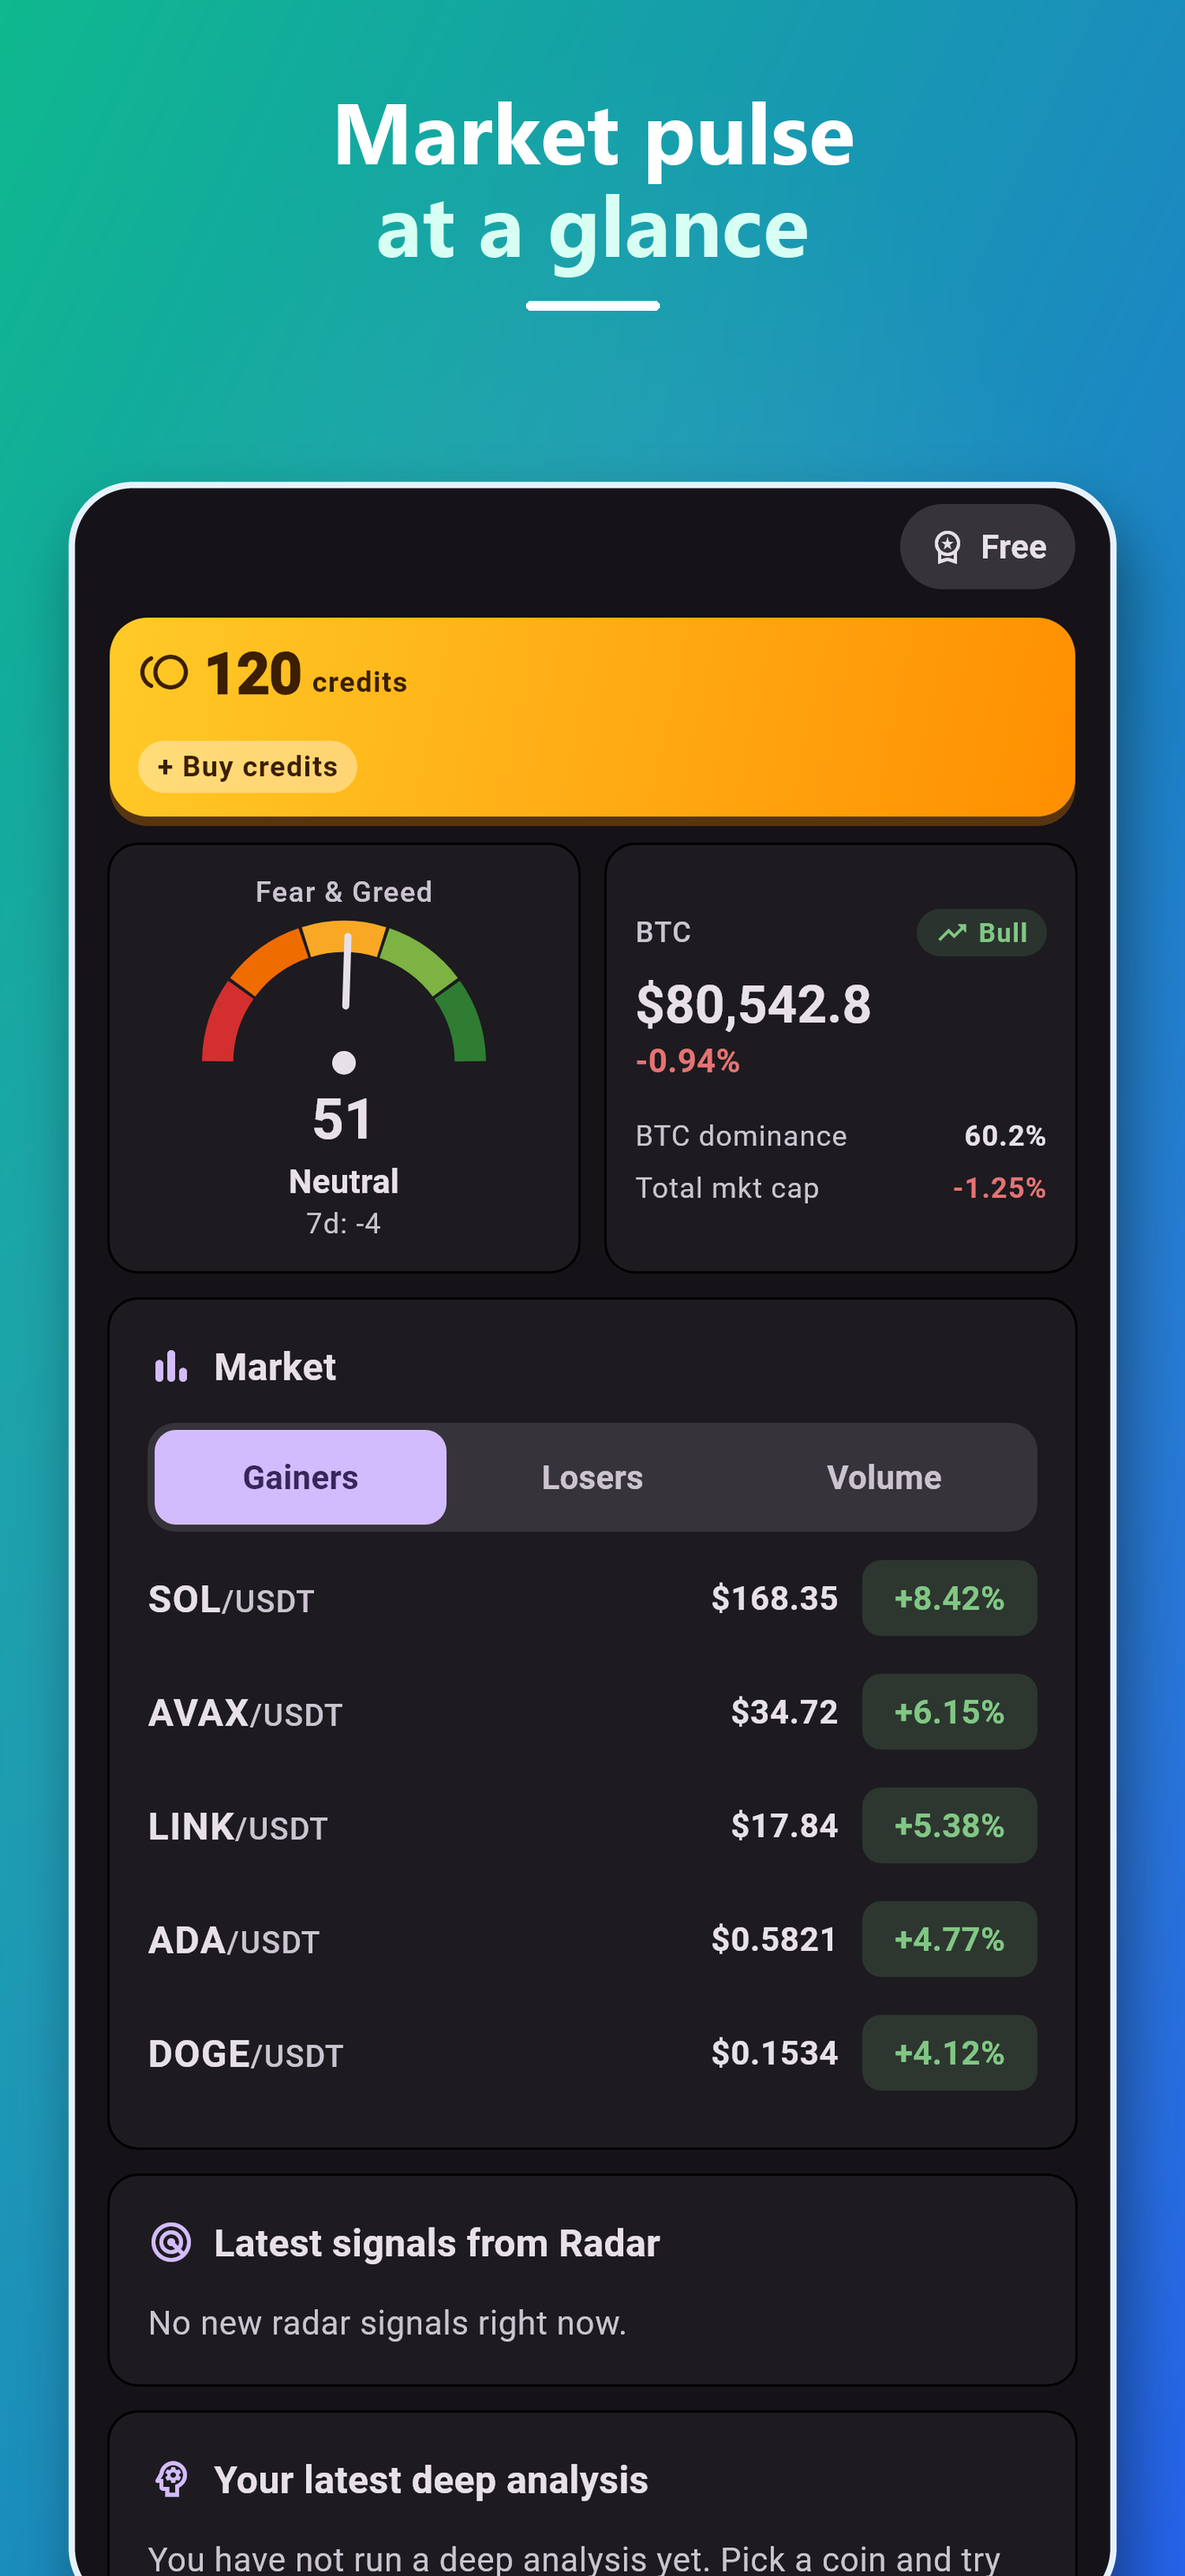
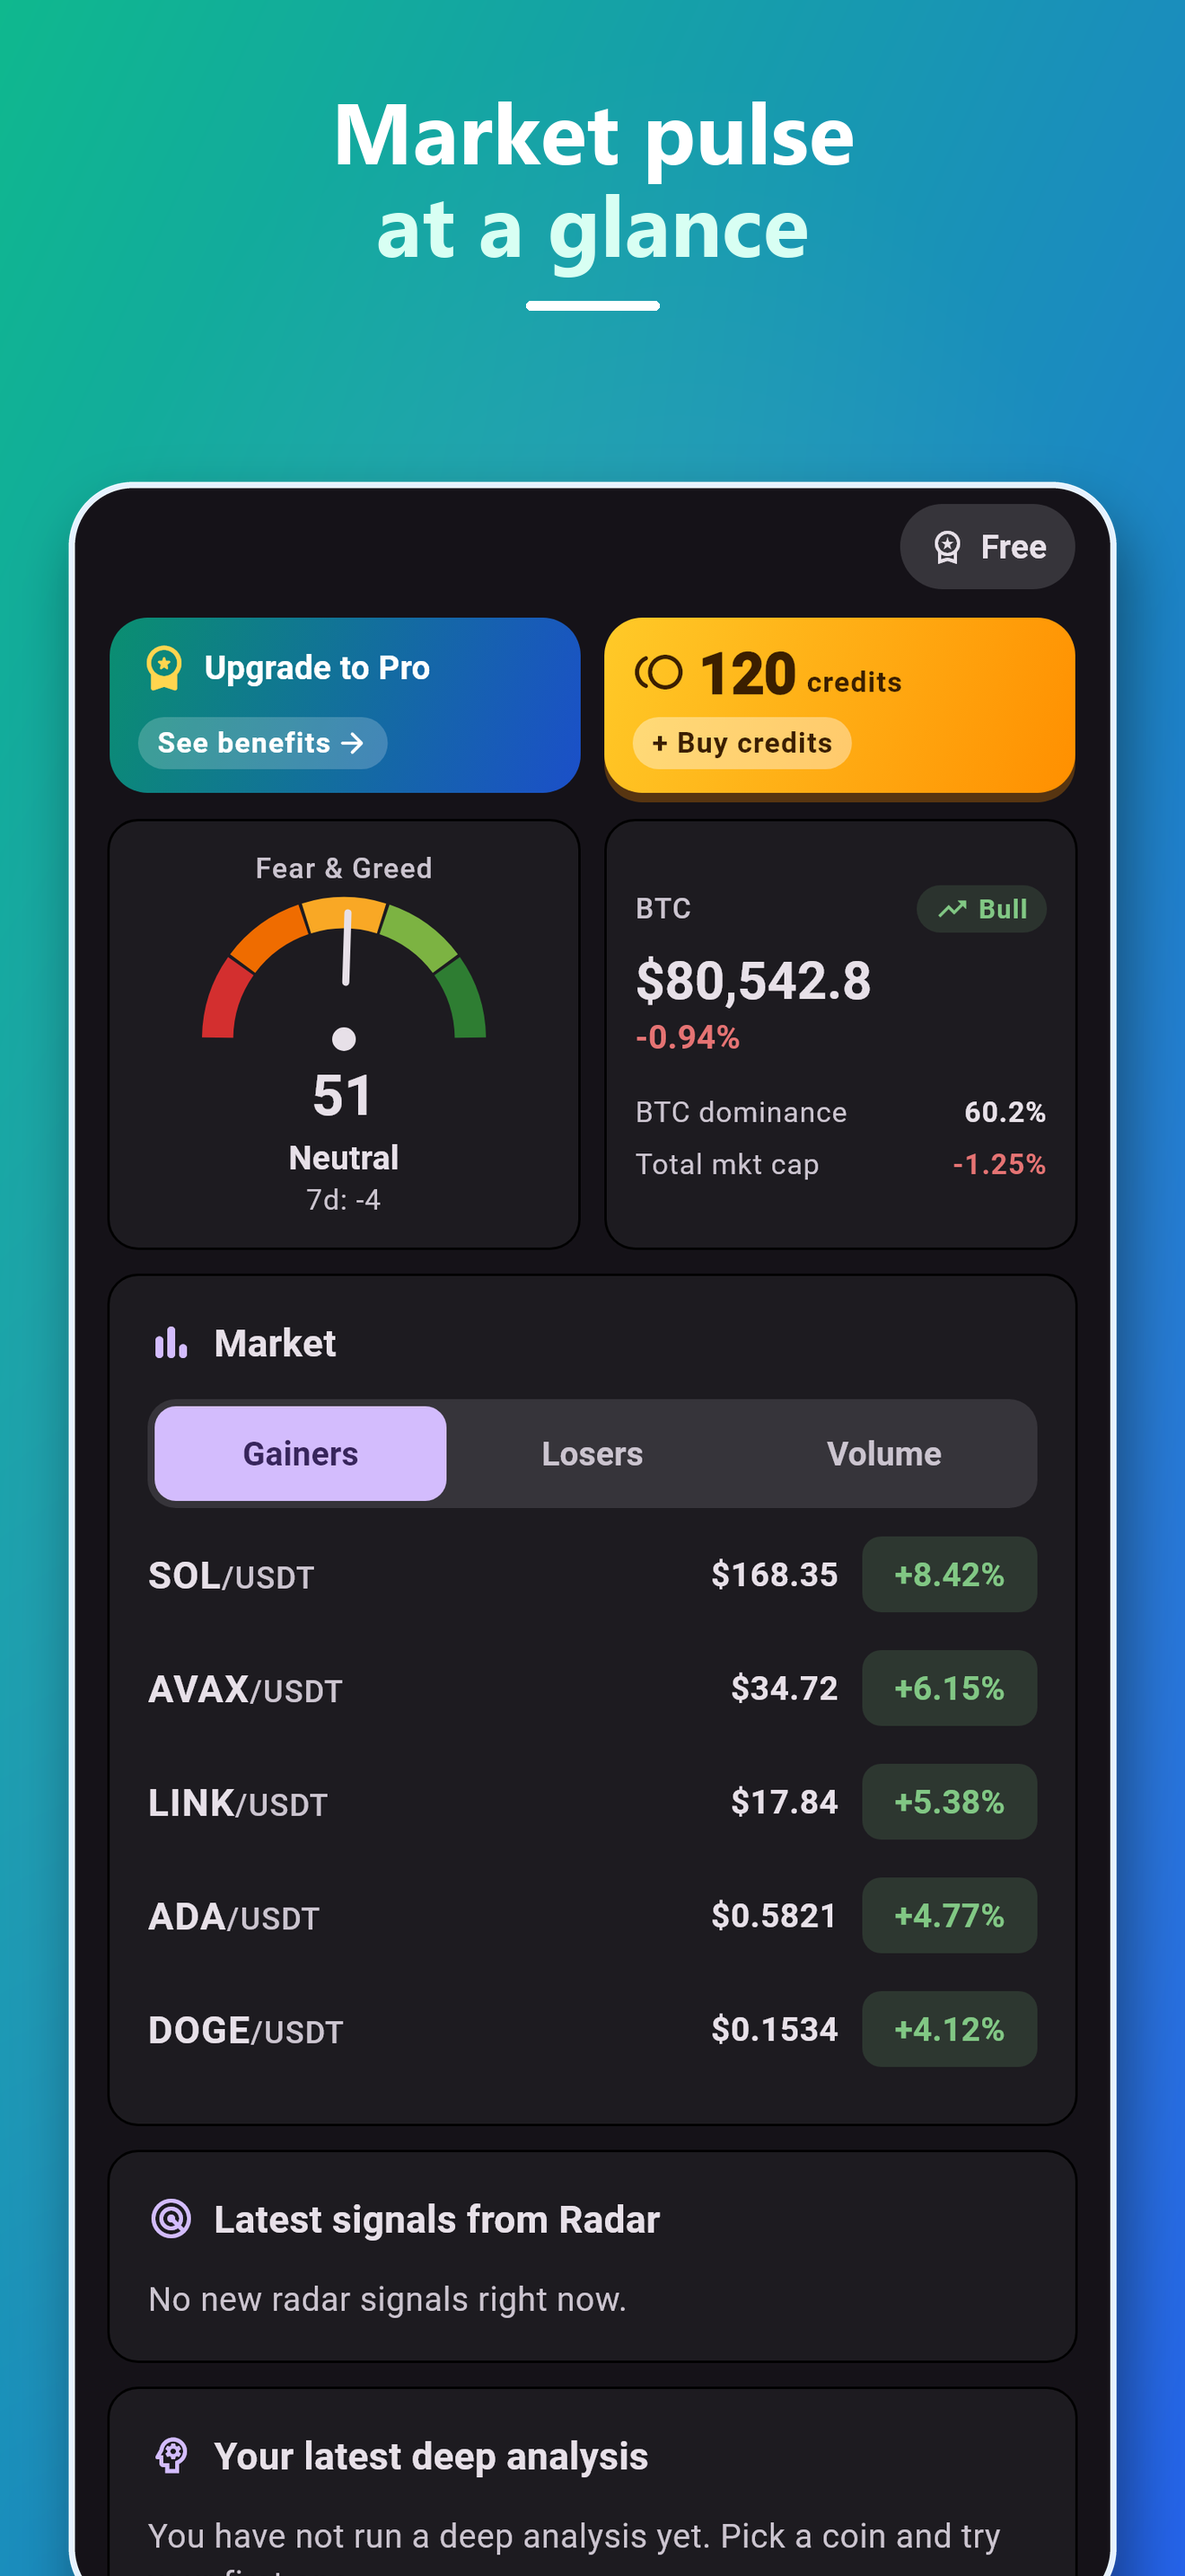
Regenerate App Store screenshots with Pro available; add 09-pro subscription screen

Changed region(s): [[0.0932, 0.2172, 0.9008, 0.8379], [0.1242, 0.8379, 0.8386, 1.0], [0.8076, 0.4034, 0.9008, 0.4655]]

diff --git a/test/store_screenshots/store_screenshots_test.dart b/test/store_screenshots/store_screenshots_test.dart
@@ -10,6 +10,7 @@ import 'package:flutter/material.dart';
 import 'package:flutter_riverpod/flutter_riverpod.dart';
 import 'package:flutter_riverpod/misc.dart' show Override;
 import 'package:flutter_test/flutter_test.dart';
+import 'package:in_app_purchase/in_app_purchase.dart';
 import 'package:kriptoanaliz/ads/ads_controller.dart';
 import 'package:kriptoanaliz/data/app_config_api.dart';
 import 'package:kriptoanaliz/data/binance_klines_api.dart';
@@ -23,6 +24,7 @@ import 'package:kriptoanaliz/models/chart_signal.dart';
 import 'package:kriptoanaliz/models/coin.dart';
 import 'package:kriptoanaliz/models/coin_overview.dart';
 import 'package:kriptoanaliz/models/member.dart';
+import 'package:kriptoanaliz/models/subscription_plan.dart';
 import 'package:kriptoanaliz/models/price_alert.dart';
 import 'package:kriptoanaliz/models/radar_item.dart';
 import 'package:kriptoanaliz/models/structured_analysis.dart';
@@ -39,14 +41,18 @@ import 'package:kriptoanaliz/providers/live_chart_provider.dart';
 import 'package:kriptoanaliz/providers/locale_provider.dart';
 import 'package:kriptoanaliz/providers/price_alert_provider.dart';
 import 'package:kriptoanaliz/providers/radar_provider.dart';
+import 'package:kriptoanaliz/providers/credit_purchase_provider.dart';
 import 'package:kriptoanaliz/providers/selected_coin_provider.dart';
+import 'package:kriptoanaliz/providers/store_price_provider.dart';
+import 'package:kriptoanaliz/providers/store_product_provider.dart';
+import 'package:kriptoanaliz/providers/subscription_provider.dart';
 import 'package:kriptoanaliz/providers/watchlist_provider.dart';
 import 'package:kriptoanaliz/utils/price_alert_logic.dart';
-import 'package:kriptoanaliz/utils/pro_purchase.dart';
 import 'package:kriptoanaliz/screens/chart_screen.dart';
 import 'package:kriptoanaliz/screens/glossary_screen.dart';
 import 'package:kriptoanaliz/screens/home_screen.dart';
 import 'package:kriptoanaliz/screens/radar_screen.dart';
+import 'package:kriptoanaliz/screens/subscription_screen.dart';
 import 'package:kriptoanaliz/screens/watchlist_screen.dart';
 import 'package:kriptoanaliz/widgets/analysis_card.dart';
 import 'package:shared_preferences/shared_preferences.dart';
@@ -91,8 +97,6 @@ Future<ProviderContainer> makeContainer(
       sharedPreferencesProvider.overrideWithValue(prefs),
       adsControllerProvider.overrideWith(_NoAds.new),
       authProvider.overrideWith(() => FakeAuth(member)),
-      // iOS profile: the app hides every Pro purchase surface on iOS.
-      if (iosProfile) proPurchaseAvailableProvider.overrideWithValue(false),
       ...extra,
     ],
   );
@@ -453,9 +457,57 @@ void main() {
         await _settle(tester, 10);
         await savePng(tester, lang, '08-glossary');
       }, skip: skip);
+
+      // App Store set only: the Pro / subscription screen (iOS wording, store
+      // price and auto-renew terms) with demo plan data.
+      testWidgets('09-pro', (tester) async {
+        usePhoneSurface(tester);
+        final c = await makeContainer(
+          tester,
+          extra: [
+            purchaseIsIosProvider.overrideWithValue(true),
+            inAppPurchaseProvider.overrideWithValue(_NoStore()),
+            subscriptionPlanListProvider.overrideWith(
+              (ref) async => const [demoProPlan],
+            ),
+            storePricesProvider.overrideWith(
+              (ref, ids) async => const {'ios_pro_monthly': '\$9.99'},
+            ),
+            storeProductsProvider.overrideWith((ref, ids) async => {}),
+          ],
+        );
+        await tester.pumpWidget(
+          shotApp(lang: lang, home: const SubscriptionScreen(), container: c),
+        );
+        await _settle(tester, 10);
+        // The page is longer than the phone: scroll to the end so the plan
+        // card, price, auto-renew note, terms and restore button are visible.
+        await tester.drag(find.byType(ListView).first, const Offset(0, -380));
+        await _settle(tester, 10);
+        await savePng(tester, lang, '09-pro');
+      }, skip: skip || !iosProfile);
     });
   }
 }
+
+/// Inert store plugin: no platform channels, no purchase events.
+class _NoStore implements InAppPurchase {
+  @override
+  Stream<List<PurchaseDetails>> get purchaseStream => const Stream.empty();
+
+  @override
+  dynamic noSuchMethod(Invocation invocation) => super.noSuchMethod(invocation);
+}
+
+const demoProPlan = SubscriptionPlan(
+  id: 1,
+  name: 'CryptoAnaliz Pro',
+  price: '9.99',
+  durationDays: 30,
+  storeProductIdAndroid: 'pro_monthly',
+  appleProductId: 'ios_pro_monthly',
+  monthlyCredit: 300,
+);
 
 /// Unmounts the chart and disposes the container so the live chart's timers
 /// are cancelled before the test ends.

diff --git a/assets/brand/compose_screenshots.js b/assets/brand/compose_screenshots.js
@@ -12,6 +12,7 @@ const CAPTIONS = {
   '06-radar':         { en: ['Radar spots', 'oversold setups'],      tr: ['Radar aşırı satım', 'fırsatlarını tarar'], es: ['El radar detecta', 'sobreventas'] },
   '07-watchlist':     { en: ['Watchlist &', 'price alerts'],         tr: ['Takip listesi ve', 'fiyat alarmları'],   es: ['Lista de seguimiento', 'y alertas de precio'] },
   '08-glossary':      { en: ['Every term,', 'clearly explained'],    tr: ['Her terim,', 'açıkça anlatılır'],        es: ['Cada término,', 'bien explicado'] },
+  '09-pro':           { en: ['Pro plan with', 'monthly credits'],      tr: ['Aylık kredili', 'Pro abonelik'],          es: ['Plan Pro con', 'créditos mensuales'] },
   '01-home':     { en: ['Market pulse', 'at a glance'],        tr: ['Piyasa nabzı', 'tek bakışta'],          es: ['El pulso del mercado', 'de un vistazo'] },
   '02-chart':    { en: ['Live charts &', 'indicator signals'], tr: ['Canlı grafikler ve', 'gösterge sinyalleri'], es: ['Gráficos en vivo y', 'señales de indicadores'] },
   '03-deep':     { en: ['Deep analysis in', 'plain language'],  tr: ['Derin analiz,', 'sade bir dille'],      es: ['Análisis profundo', 'en lenguaje sencillo'] },

diff --git a/test/store_screenshots/shot_support.dart b/test/store_screenshots/shot_support.dart
@@ -62,8 +62,8 @@ Future<void> loadStoreFonts() async {
 }
 
 /// Profile: `STORE_SHOT_PROFILE=ios` renders the App Store set (iPhone 6.9",
-/// 440x956 logical at 3x = 1320x2868, Dynamic Island insets, no Pro purchase
-/// surfaces); anything else is the Play Store phone (1080x2400).
+/// 440x956 logical at 3x = 1320x2868, Dynamic Island insets, adds the
+/// 09-pro screen); anything else is the Play Store phone (1080x2400).
 final bool iosProfile = Platform.environment['STORE_SHOT_PROFILE'] == 'ios';
 
 /// Insets of the capture (Play: status bar 32dp, nav bar 44dp; iOS: Dynamic

diff --git a/store_assets/screenshots_ios/README.md b/store_assets/screenshots_ios/README.md
@@ -1,13 +1,15 @@
 # App Store screenshots (iPhone 6.9")
 
 Branded 1320x2868 PNG phone screenshots (no alpha) per listing language: `en/`,
-`tr/`, `es/` (`01-home` ... `08-glossary`, same order and captions as the Play
+`tr/`, `es/` (`01-home` ... `09-pro`, same order and captions as the Play
 set in `../screenshots/`, see its README for the caption table).
 
-iOS specifics: rendered with `proPurchaseAvailableProvider` overridden to
-`false` (as on iOS), so the home screen shows the full-width credit card and no
-Pro promo card; no Pro prices/CTAs and no Android UI appear. Captions mention
-no other platform and no Pro.
+iOS specifics: Pro purchase is available on iOS (same as Android), so the home
+screen shows the Pro promo card next to the credit card (no provider override).
+`09-pro` is the Pro / subscription screen with iOS wording and demo plan data
+(price `$9.99`, auto-renew note, App Store terms, manage / restore, legal
+links; scrolled to the plan card). It exists only in the iOS set. No Android UI
+appears and captions mention no other platform.
 
 Pipeline (`sh tool/store_screenshots_ios.sh`):
 
@@ -21,5 +23,5 @@ Pipeline (`sh tool/store_screenshots_ios.sh`):
    flattens to RGB.
 
 Apple rules checked: PNG, no alpha, 1320x2868 (6.9" Dynamic Island, the single
-set App Store Connect scales down). Verified programmatically: 24 files, all
+set App Store Connect scales down). Verified programmatically: 27 files, all
 1320x2868 RGB. See docs/release/appstore-screenshots.md in binance_analiz.
